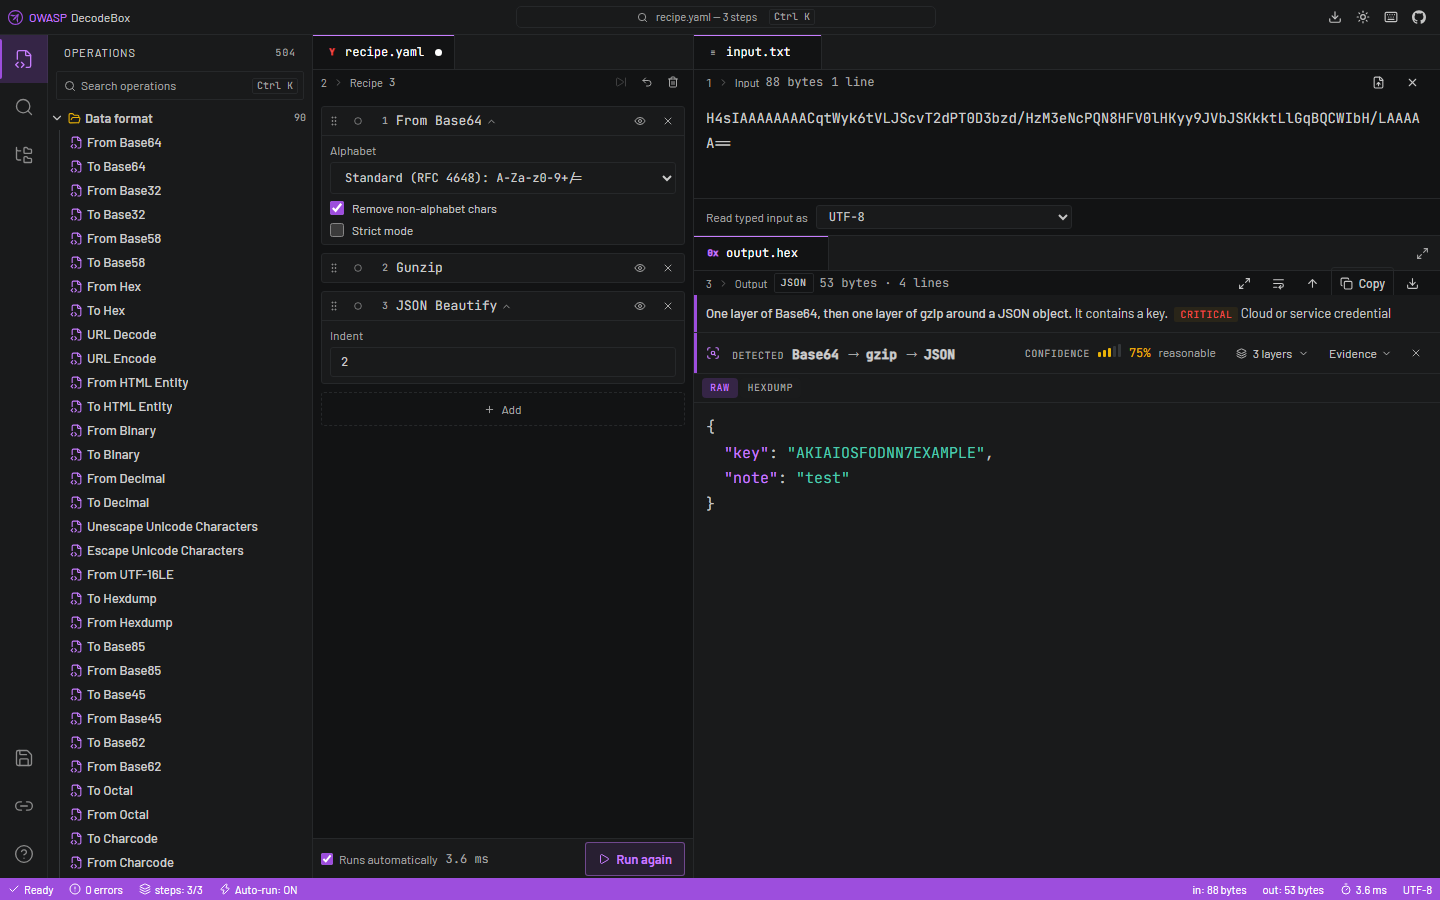
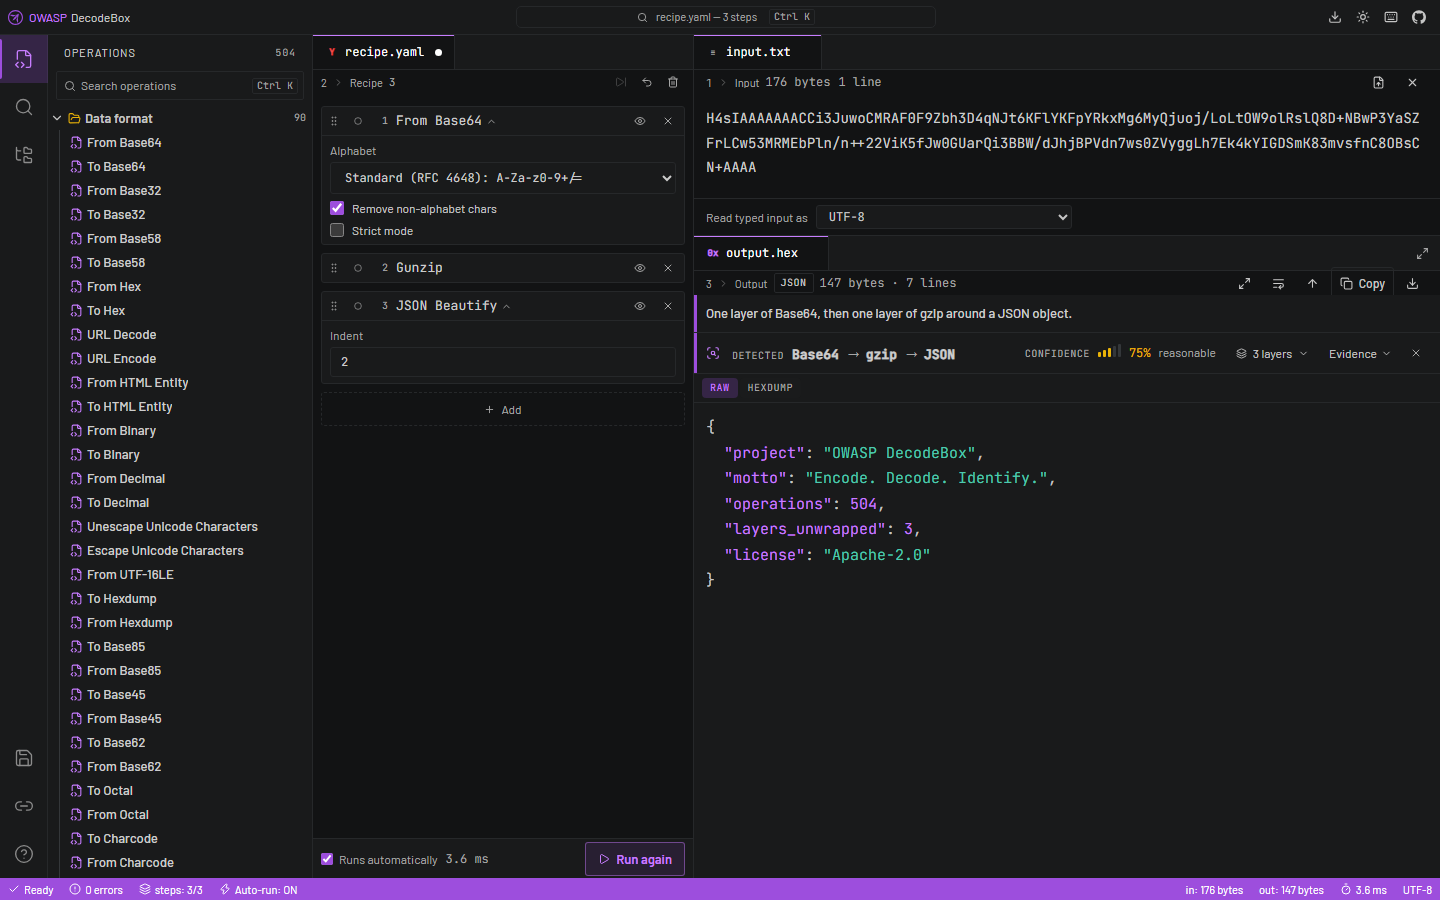
docs: use the brand line and a cleaner screenshot in the README
- Replace the introduction with the brand line: Encode. Decode. Identify.
  Smart decoding for any data.
- Retake the screenshot with a payload that decodes to a short JSON
  description of the project, instead of a sample credential.

diff --git a/README.md b/README.md
@@ -5,7 +5,7 @@
 [![Live Site](https://img.shields.io/badge/demo-owasp.github.io%2FDecodeBox-orange.svg)](https://owasp.github.io/DecodeBox/)
 [![Client-side](https://img.shields.io/badge/processing-100%25_local-green.svg)](#security--privacy)
 
-A browser-based workbench that unwraps unknown data, names what it finds, and explains how it knew.
+**Encode. Decode. Identify.** Smart decoding for any data.
 
 [![DecodeBox auto-decoding a layered payload](docs/screenshot.png)](https://owasp.github.io/DecodeBox/)
 
